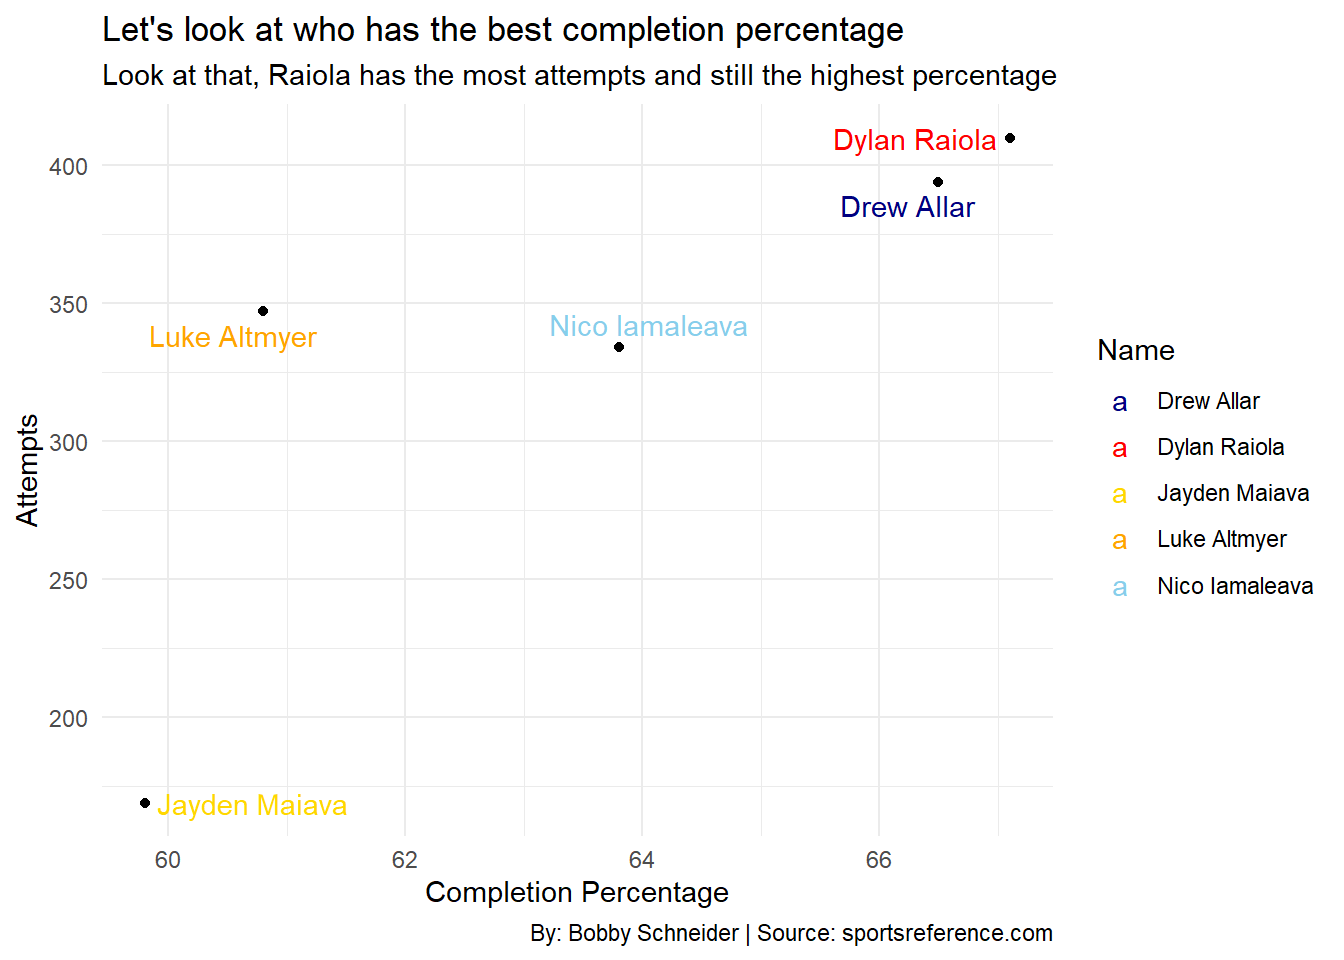
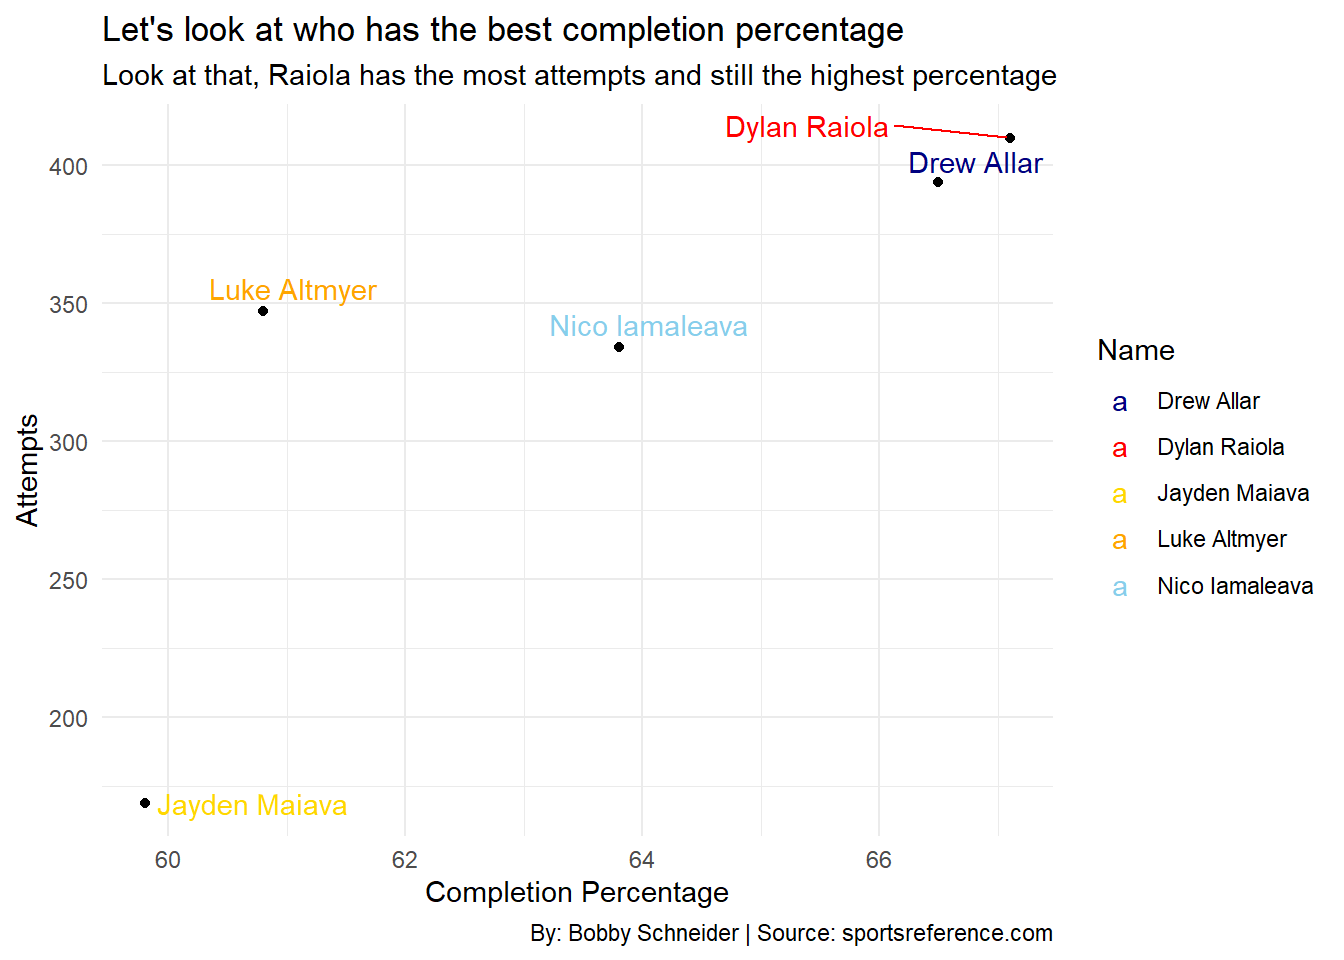
update17

Changed region(s): [[0.5312, 0.125, 0.7812, 0.25], [0.1562, 0.2812, 0.2812, 0.3125], [0.125, 0.3438, 0.25, 0.375]]

diff --git a/index.html b/index.html
@@ -205,7 +205,7 @@ window.Quarto = {
 
 <div class="quarto-listing quarto-listing-container-default" id="listing-listing">
 <div class="list quarto-listing-default">
[2 lines of base64/hex data omitted]
 <div class="thumbnail">
 <p><a href="./posts/dylan-raiola-compared-to-big-ten-qbs/index.html" class="no-external"></a></p><a href="./posts/dylan-raiola-compared-to-big-ten-qbs/index.html" class="no-external">
 <p><img loading="lazy" src="./posts/dylan-raiola-compared-to-big-ten-qbs/Raiola_Graphic.png" class="thumbnail-image"></p>
@@ -233,15 +233,7 @@ Big Ten
 </div>
 </div>
 <div class="listing-description">
-<a href="./posts/dylan-raiola-compared-to-big-ten-qbs/index.html" class="no-external">
-<details class="code-fold">
-<summary>Code</summary>
-<div class="sourceCode cell-code" id="cb1"><pre class="sourceCode r code-with-copy"><code class="sourceCode r"><span id="cb1-1"><span class="fu">waffle</span>(</span>
-<span id="cb1-2">        Pass_Yards, </span>
-<span id="cb1-3">        <span class="at">rows =</span> <span class="dv">10</span>, </span>
-<span id="cb1-4">        <span class="at">title=</span><span class="st">"Passing Yards"</span>, </span>
-<span id="cb1-5">        <span class="at">xlab=</span><span class="st">"1 square = 10 yards"</span>, </span>
-<span id="cb1-6">        <span class="at">colors =</span> <span class="fu">c</span>(<span class="st">"red"</span>, <span class="st">"skyblue"</span>, <span class="st">"orange"</span>, <span class="st">"n…</span><span class="st"></span></span><span id="cb1-7"><span class="sc"></span></span><span id="cb1-8"><span class="fu"></span></span><span id="cb1-9"><span class="at"></span><span class="st"></span></span><span id="cb1-10"><span class="at"></span><span class="st"></span></span><span id="cb1-11"><span class="at"></span><span class="st"></span></span></code></pre></div></details><div class="cell-output-display"><div><figure class="figure"><p></p></figure></div></div></a>
+<a href="./posts/dylan-raiola-compared-to-big-ten-qbs/index.html" class="no-external">Dylan Raiola showed sparks of eliteness as a true freshman in Lincoln, but he also had his fair share of rookie moments. As he enters his sophomore season, the expectations…</a>
 </div>
 </div>
 <div class="metadata">

diff --git a/posts/dylan-raiola-compared-to-big-ten-qbs/index.html b/posts/dylan-raiola-compared-to-big-ten-qbs/index.html
@@ -191,6 +191,9 @@ pre > code.sourceCode > span > a:first-child::before { text-decoration: underlin
 
 
 
+<p>Dylan Raiola showed sparks of eliteness as a true freshman in Lincoln, but he also had his fair share of rookie moments. As he enters his sophomore season, the expectations for Nebraska football with him under center continue to grow.</p>
+<p>Could Raiola make the jump to become elite as a Big Ten QB? You’ll find he did pretty solid, especially compared to quarterbacks that had been starters before Raiola even stepped foot on a college campus.</p>
+<p>Below, we will compare Raiola to four quarterbacks who were starters the past season in the Big Ten. The only expectation — former Tennessee, now UCLA quarterback Nico Iamaleava. The others include Penn State’s Drew Allar, Illinois’ Luke Altmyer and USC’s Jayden Maiava.</p>
 <div class="cell">
 <details class="code-fold">
 <summary>Code</summary>
